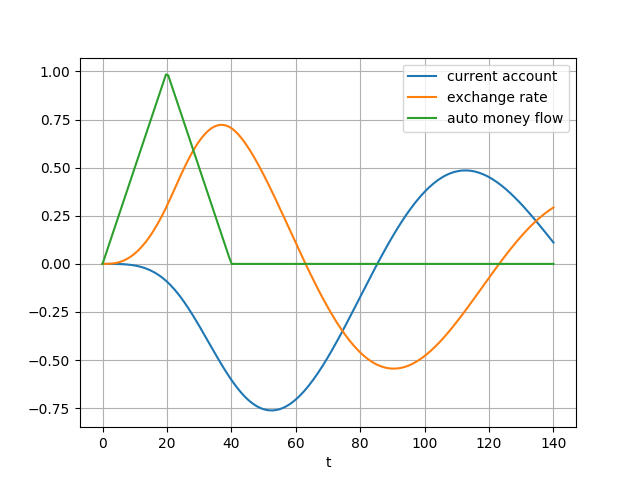
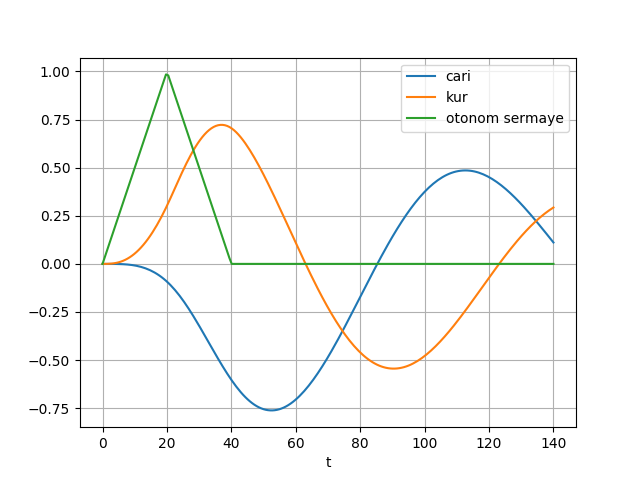
-

Changed region(s): [[0.6875, 0.125, 0.875, 0.2812], [0.625, 0.1562, 0.6562, 0.25]]

diff --git a/tser/tser_120_exch/doviz_fiyatlari_kur_krizleri_rezervler_odeme_dengesi.html b/tser/tser_120_exch/doviz_fiyatlari_kur_krizleri_rezervler_odeme_dengesi.html
@@ -303,7 +303,7 @@ df = pd.DataFrame( sol )
 df.columns = ['cari','kur','borc','otonom sermaye']
 df['t'] = t
 df = df.set_index('t')
-df[['cari','kur','otonom']].plot(grid=True)
+df[['cari','kur','otonom sermaye']].plot(grid=True)
 plt.savefig('mod3.png')
 </code></pre>
 

diff --git a/tser/tser_120_exch/tser_120_exch.html b/tser/tser_120_exch/tser_120_exch.html
@@ -303,7 +303,7 @@ df = pd.DataFrame( sol )
 df.columns = ['cari','kur','borc','otonom sermaye']
 df['t'] = t
 df = df.set_index('t')
-df[['cari','kur','otonom']].plot(grid=True)
+df[['cari','kur','otonom sermaye']].plot(grid=True)
 plt.savefig('mod3.png')
 </code></pre>
 

diff --git a/tser/tser_120_exch/tser_120_exch.tex b/tser/tser_120_exch/tser_120_exch.tex
@@ -347,7 +347,7 @@ df = pd.DataFrame( sol )
 df.columns = ['cari','kur','borc','otonom sermaye']
 df['t'] = t
 df = df.set_index('t')
-df[['cari','kur','otonom']].plot(grid=True)
+df[['cari','kur','otonom sermaye']].plot(grid=True)
 plt.savefig('mod3.png')
 \end{minted}
 
